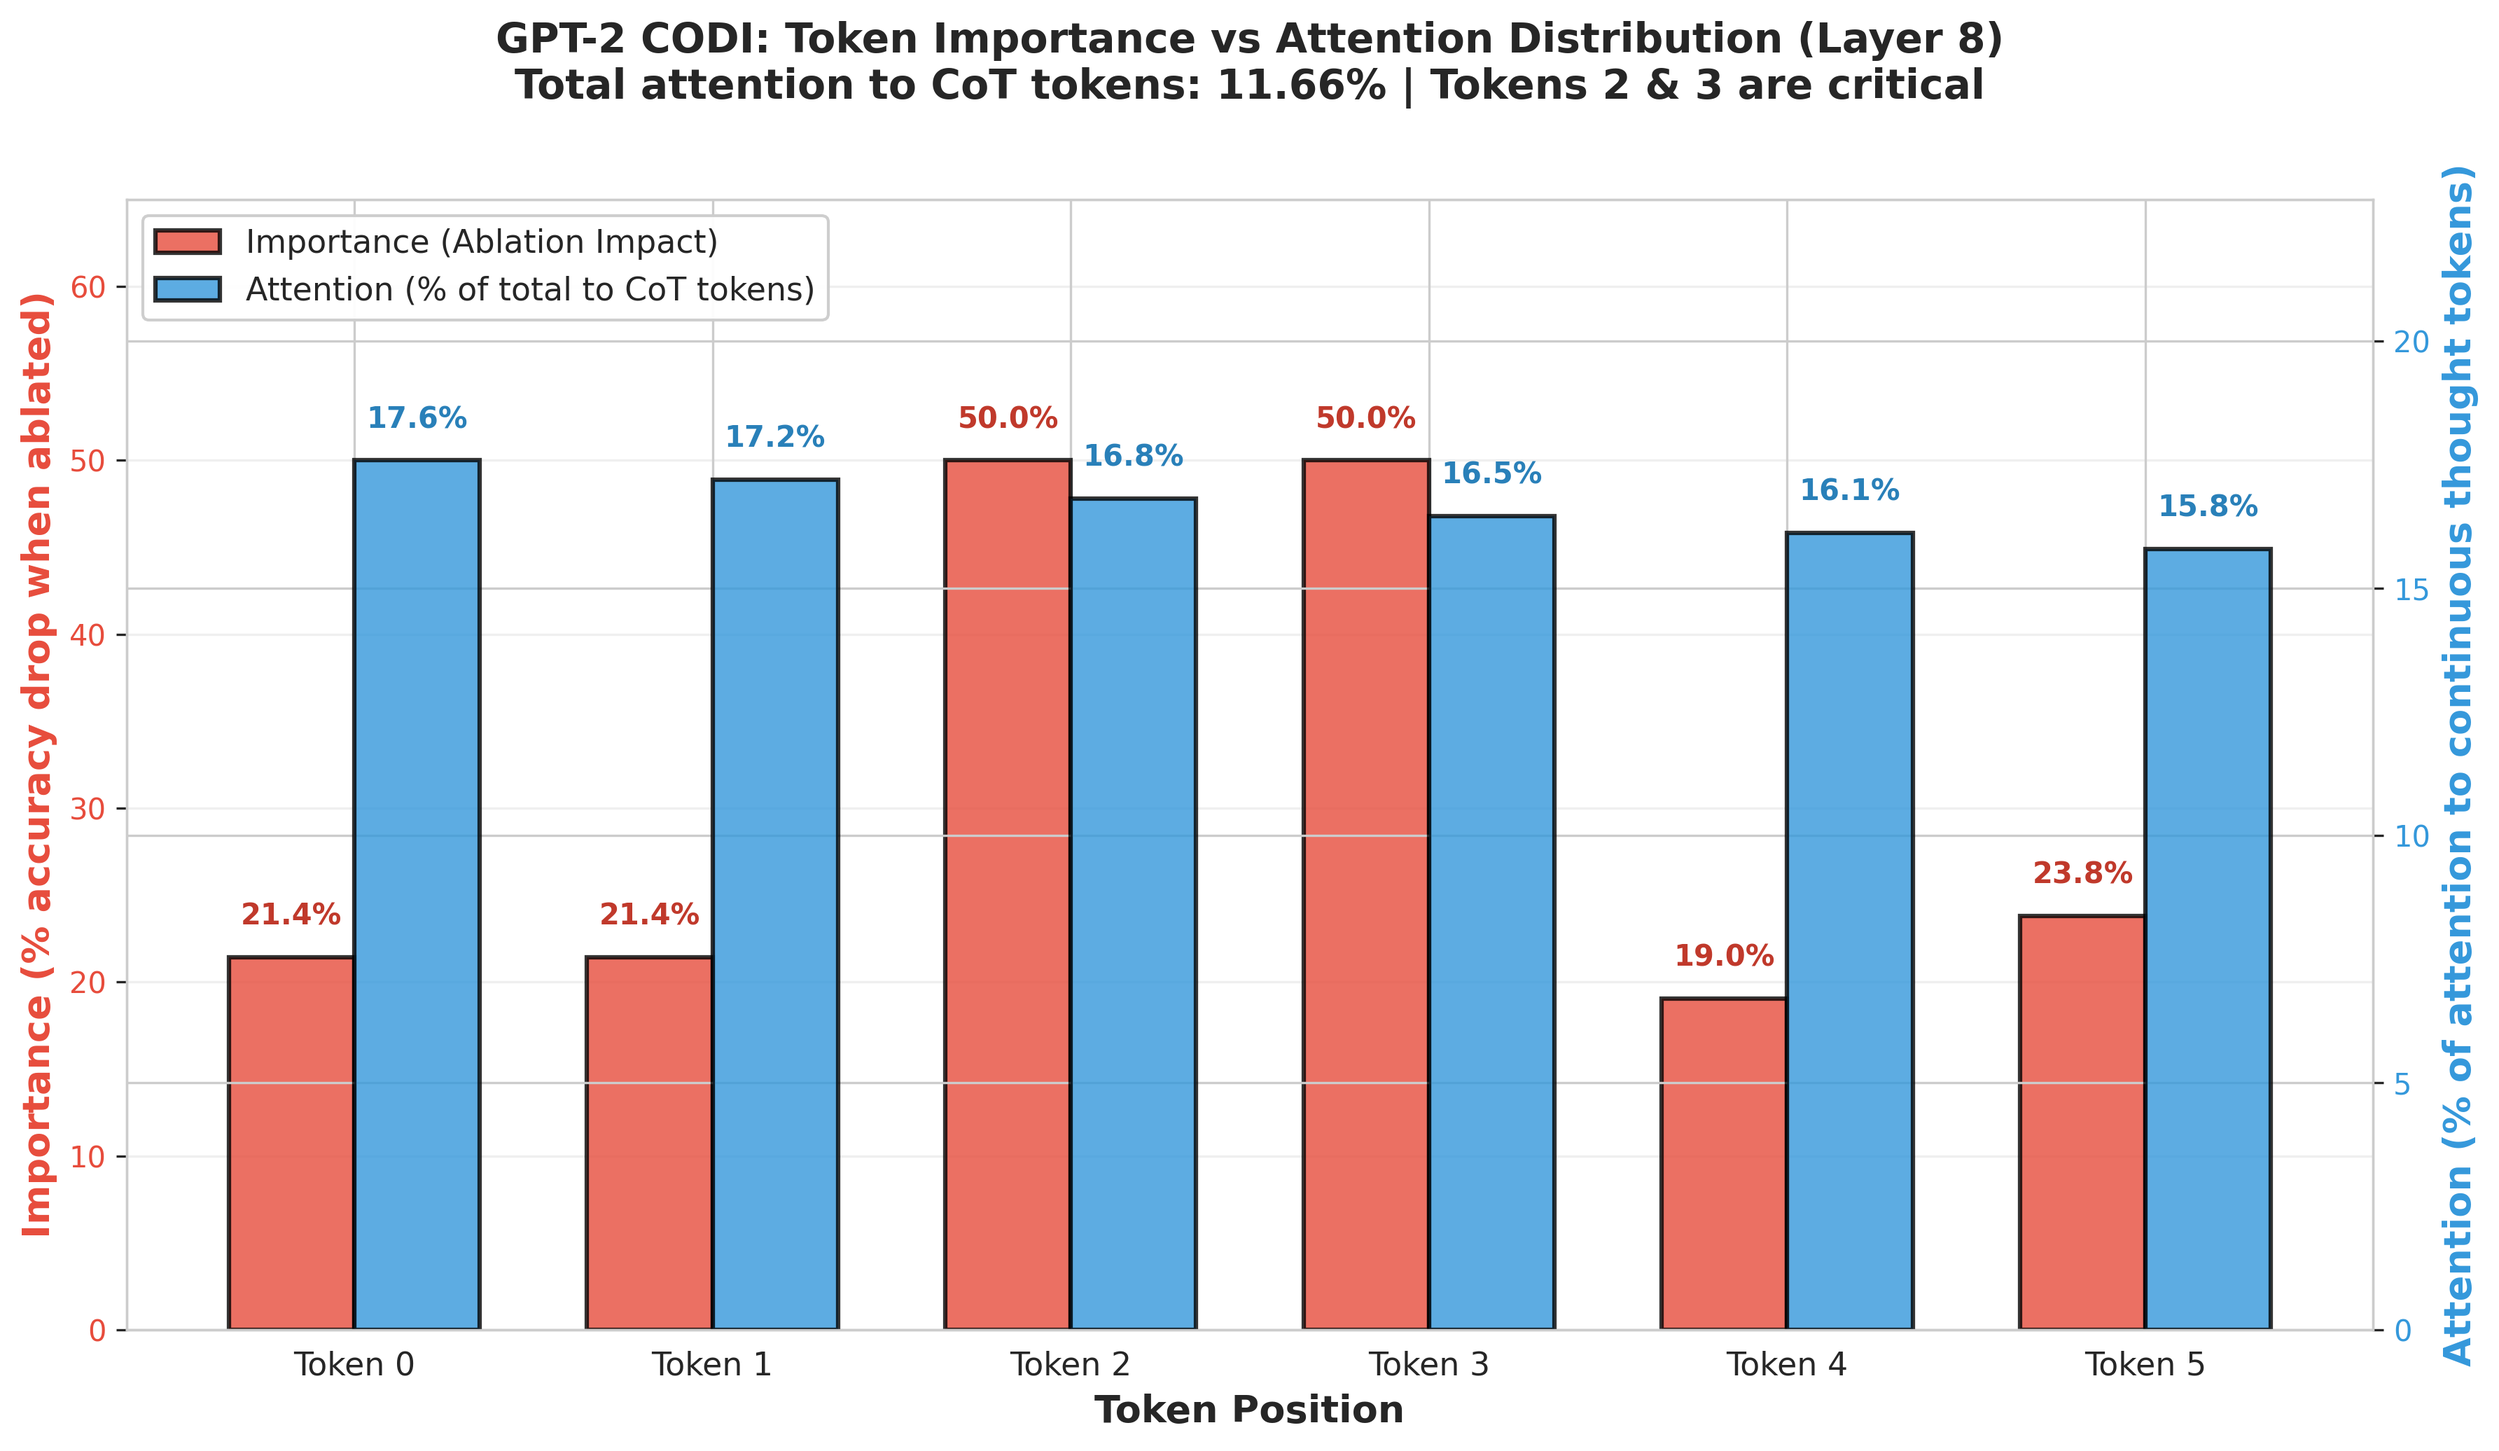
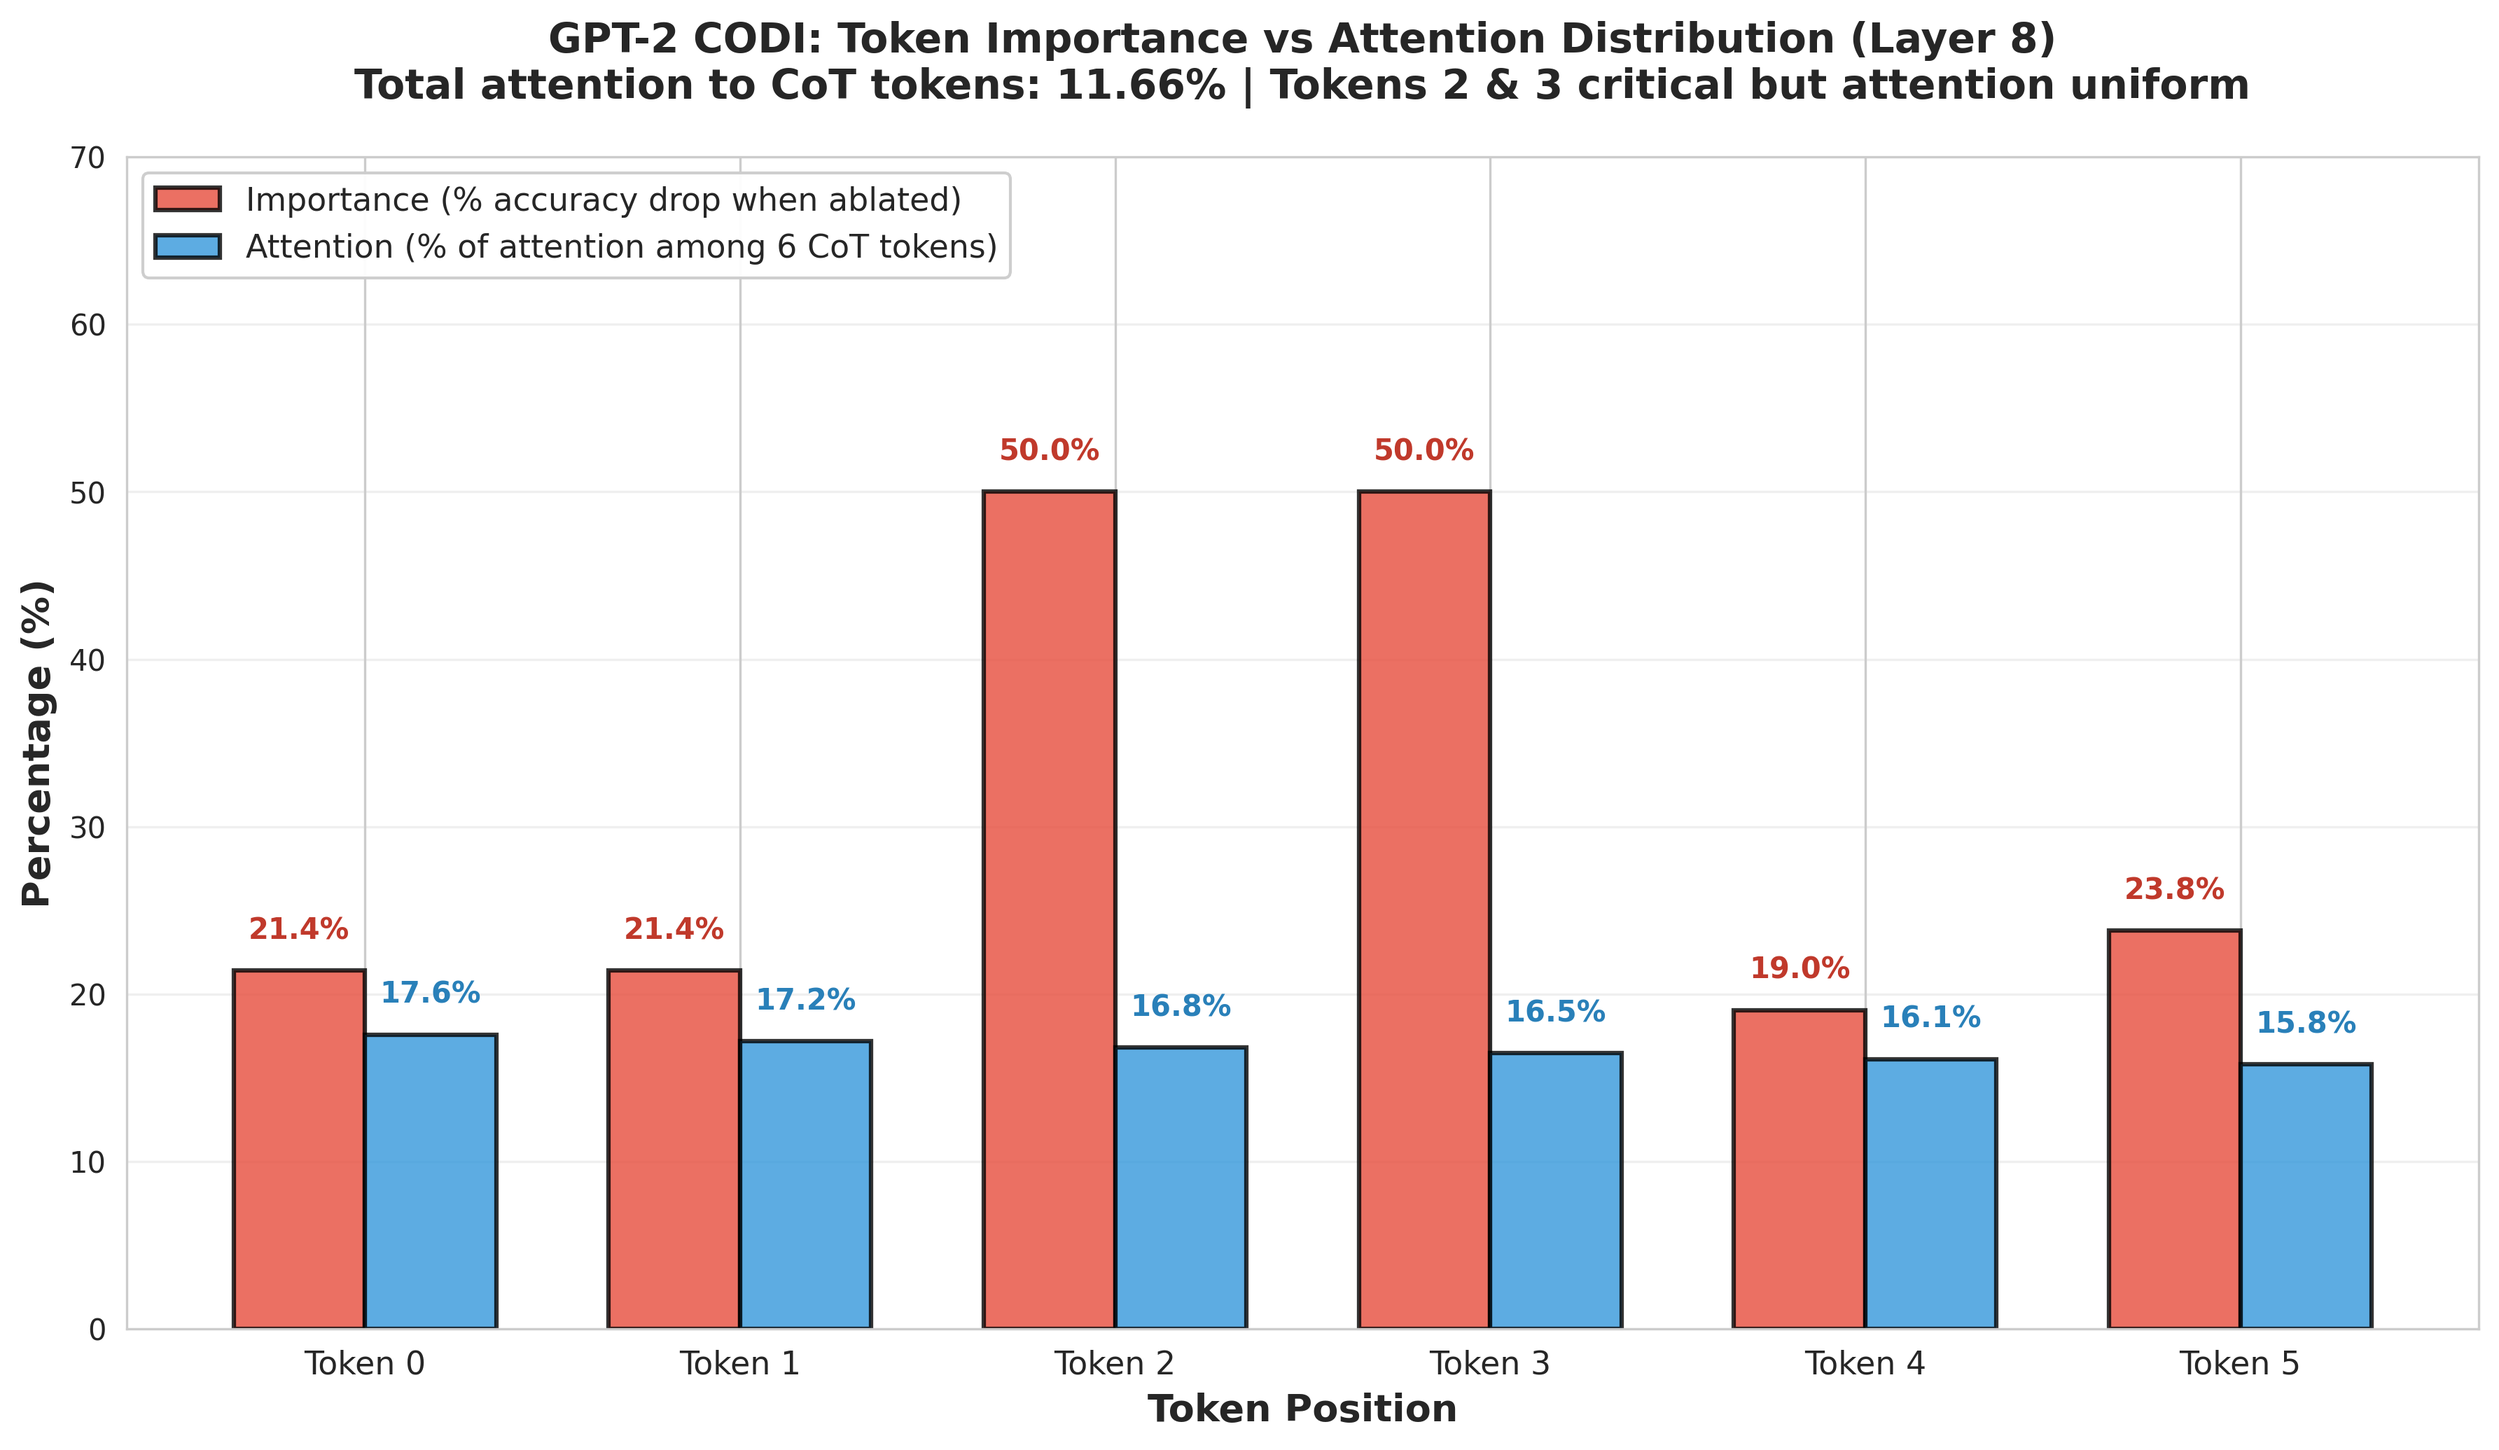
fix: Replace misleading dual y-axes with single scale in comparison charts
Fix critical visualization issue where dual y-axes with different scales
made values with different magnitudes appear the same height (e.g., 20.3%
and 44.8% looked identical).

Changes:
- GPT-2: Single y-axis (0-70%) for both importance and attention
- LLaMA: Single y-axis (0-50%) for both importance and attention
- Bar heights now directly comparable and meaningful
- Attention shown as "% of attention among 6 CoT tokens" (sums to 100%)

Before: Dual y-axes made 20.3% importance and 44.8% attention appear same height
After: Same scale shows true proportions - bar heights are meaningful

🤖 Generated with [Claude Code](https://claude.com/claude-code)

Changed region(s): [[0.0933, 0.0927, 0.9952, 0.9889], [0.0, 0.0, 0.9019, 0.8653], [0.0622, 0.7417, 0.0933, 0.7726]]

diff --git a/src/experiments/gpt2_attention_analysis/scripts/create_comparison_chart.py b/src/experiments/gpt2_attention_analysis/scripts/create_comparison_chart.py
@@ -99,68 +99,53 @@ def compute_token_stats(ablation_results, attention_results, layer=8):
     return token_stats
 
 def create_comparison_chart(token_stats, output_dir, layer=8):
-    """Create bar chart comparing importance and attention using dual y-axes."""
-    fig, ax1 = plt.subplots(figsize=(12, 7))
+    """Create bar chart comparing importance and attention using SAME SCALE."""
+    fig, ax = plt.subplots(figsize=(12, 7))
 
     x = np.arange(6)
     width = 0.35
 
-    # Get raw values
-    importance_vals = [s['importance'] * 100 for s in token_stats]  # Convert to percentage
-    attention_vals = [s['attention'] * 100 for s in token_stats]  # Convert to percentage
-
-    # Calculate total attention to continuous thought tokens
+    # Get raw values - both as percentages on SAME SCALE
+    importance_vals = [s['importance'] * 100 for s in token_stats]  # % accuracy drop
     total_attention = sum(s['attention'] for s in token_stats)
-    attention_pct_of_total = [s['attention'] / total_attention * 100 for s in token_stats]
+    attention_pct_of_total = [s['attention'] / total_attention * 100 for s in token_stats]  # % of CoT attention
 
-    # Create first y-axis for importance
-    bars1 = ax1.bar(x - width/2, importance_vals, width,
-                    label='Importance (Ablation Impact)',
-                    color='#e74c3c', alpha=0.8, edgecolor='black', linewidth=1.5)
+    # Create bars with SAME Y-AXIS
+    bars1 = ax.bar(x - width/2, importance_vals, width,
+                   label='Importance (% accuracy drop when ablated)',
+                   color='#e74c3c', alpha=0.8, edgecolor='black', linewidth=1.5)
 
-    ax1.set_xlabel('Token Position', fontsize=13, fontweight='bold')
-    ax1.set_ylabel('Importance (% accuracy drop when ablated)', fontsize=13, fontweight='bold', color='#e74c3c')
-    ax1.tick_params(axis='y', labelcolor='#e74c3c')
-    ax1.set_ylim(0, max(importance_vals) * 1.3)
-
-    # Create second y-axis for attention
-    ax2 = ax1.twinx()
-    bars2 = ax2.bar(x + width/2, attention_pct_of_total, width,
-                    label='Attention (% of total to CoT tokens)',
-                    color='#3498db', alpha=0.8, edgecolor='black', linewidth=1.5)
-
-    ax2.set_ylabel('Attention (% of attention to continuous thought tokens)', fontsize=13, fontweight='bold', color='#3498db')
-    ax2.tick_params(axis='y', labelcolor='#3498db')
-    ax2.set_ylim(0, max(attention_pct_of_total) * 1.3)
+    bars2 = ax.bar(x + width/2, attention_pct_of_total, width,
+                   label='Attention (% of attention among 6 CoT tokens)',
+                   color='#3498db', alpha=0.8, edgecolor='black', linewidth=1.5)
 
     # Add values on top of bars
-    for i, stats_dict in enumerate(token_stats):
+    for i in range(6):
         # Importance percentage
-        ax1.text(i - width/2, importance_vals[i] + max(importance_vals) * 0.03,
+        ax.text(i - width/2, importance_vals[i] + 1.5,
                 f'{importance_vals[i]:.1f}%',
                 ha='center', va='bottom', fontsize=10, fontweight='bold', color='#c0392b')
 
-        # Attention percentage of CoT total
-        ax2.text(i + width/2, attention_pct_of_total[i] + max(attention_pct_of_total) * 0.03,
+        # Attention percentage
+        ax.text(i + width/2, attention_pct_of_total[i] + 1.5,
                 f'{attention_pct_of_total[i]:.1f}%',
                 ha='center', va='bottom', fontsize=10, fontweight='bold', color='#2980b9')
 
-    # Set x-axis
-    ax1.set_xticks(x)
-    ax1.set_xticklabels([f'Token {i}' for i in range(6)], fontsize=11)
-    ax1.grid(True, alpha=0.3, axis='y')
+    # Single y-axis with SAME SCALE for both metrics
+    ax.set_xlabel('Token Position', fontsize=13, fontweight='bold')
+    ax.set_ylabel('Percentage (%)', fontsize=13, fontweight='bold')
+    ax.set_ylim(0, 70)  # 0-70% range covers both metrics
+    ax.set_xticks(x)
+    ax.set_xticklabels([f'Token {i}' for i in range(6)], fontsize=11)
+    ax.grid(True, alpha=0.3, axis='y')
+    ax.legend(fontsize=11, loc='upper left', framealpha=0.95)
 
     # Title
-    fig.suptitle(f'GPT-2 CODI: Token Importance vs Attention Distribution (Layer {layer})\n'
-                 f'Total attention to CoT tokens: {total_attention*100:.2f}% | Tokens 2 & 3 are critical',
-                 fontsize=14, fontweight='bold', y=0.98)
+    ax.set_title(f'GPT-2 CODI: Token Importance vs Attention Distribution (Layer {layer})\n'
+                 f'Total attention to CoT tokens: {total_attention*100:.2f}% | Tokens 2 & 3 critical but attention uniform',
+                 fontsize=14, fontweight='bold', pad=20)
 
-    # Combined legend
-    lines1, labels1 = ax1.get_legend_handles_labels()
-    lines2, labels2 = ax2.get_legend_handles_labels()
-    ax1.legend(lines1 + lines2, labels1 + labels2, fontsize=11, loc='upper left', framealpha=0.95)
-
-    plt.tight_layout(rect=[0, 0, 1, 0.96])
+    plt.tight_layout()
 
     # Save
     output_file = output_dir / 'token_importance_attention_comparison.png'

diff --git a/src/experiments/codi_attention_interp/scripts/visualize_correlation.py b/src/experiments/codi_attention_interp/scripts/visualize_correlation.py
@@ -102,8 +102,8 @@ output_file = Path(__file__).parent.parent / 'results' / 'attention_importance_c
 plt.savefig(output_file, dpi=300, bbox_inches='tight')
 print(f'✓ Saved correlation scatter plot to {output_file}')
 
-# Create second figure: Per-token analysis at Layer 8 with DUAL Y-AXES
-fig, ax1 = plt.subplots(figsize=(12, 7))
+# Create second figure: Per-token analysis at Layer 8 using SAME SCALE
+fig, ax = plt.subplots(figsize=(12, 7))
 
 token_stats = []
 for token_pos in range(6):
@@ -137,63 +137,51 @@ for token_pos in range(6):
         'p_value': p
     })
 
-# Bar plot with DUAL Y-AXES (not misleading normalization!)
+# Bar plot with SAME Y-AXIS for both metrics
 x = np.arange(6)
 width = 0.35
 
-# Convert to percentages
-importance_vals = [s['importance'] * 100 for s in token_stats]  # Convert to %
+# Get raw values - both as percentages on SAME SCALE
+importance_vals = [s['importance'] * 100 for s in token_stats]  # % failure rate
 total_attention = sum(s['attention'] for s in token_stats)
 attention_pct_of_total = [s['attention'] / total_attention * 100 for s in token_stats]  # % of CoT attention
 
-# Create first y-axis for importance
-bars1 = ax1.bar(x - width/2, importance_vals, width,
-                label='Importance (Failure Rate)',
-                color='#e74c3c', alpha=0.8, edgecolor='black', linewidth=1.5)
+# Create bars with SAME Y-AXIS
+bars1 = ax.bar(x - width/2, importance_vals, width,
+               label='Importance (% failure rate when corrupted)',
+               color='#e74c3c', alpha=0.8, edgecolor='black', linewidth=1.5)
 
-ax1.set_xlabel('Token Position', fontsize=13, fontweight='bold')
-ax1.set_ylabel('Importance (% failure rate when corrupted)', fontsize=13, fontweight='bold', color='#e74c3c')
-ax1.tick_params(axis='y', labelcolor='#e74c3c')
-ax1.set_ylim(0, max(importance_vals) * 1.3)
+bars2 = ax.bar(x + width/2, attention_pct_of_total, width,
+               label='Attention (% of attention among 6 CoT tokens)',
+               color='#3498db', alpha=0.8, edgecolor='black', linewidth=1.5)
 
-# Create second y-axis for attention
-ax2 = ax1.twinx()
-bars2 = ax2.bar(x + width/2, attention_pct_of_total, width,
-                label='Attention (% of total to CoT tokens)',
-                color='#3498db', alpha=0.8, edgecolor='black', linewidth=1.5)
-
-ax2.set_ylabel('Attention (% of attention to continuous thought tokens)', fontsize=13, fontweight='bold', color='#3498db')
-ax2.tick_params(axis='y', labelcolor='#3498db')
-ax2.set_ylim(0, max(attention_pct_of_total) * 1.3)
-
-# Add actual values on top of bars
-for i, stats_dict in enumerate(token_stats):
+# Add values on top of bars
+for i in range(6):
     # Importance percentage
-    ax1.text(i - width/2, importance_vals[i] + max(importance_vals) * 0.03,
+    ax.text(i - width/2, importance_vals[i] + 1.5,
             f'{importance_vals[i]:.1f}%',
             ha='center', va='bottom', fontsize=10, fontweight='bold', color='#c0392b')
 
-    # Attention percentage of CoT total
-    ax2.text(i + width/2, attention_pct_of_total[i] + max(attention_pct_of_total) * 0.03,
+    # Attention percentage
+    ax.text(i + width/2, attention_pct_of_total[i] + 1.5,
             f'{attention_pct_of_total[i]:.1f}%',
             ha='center', va='bottom', fontsize=10, fontweight='bold', color='#2980b9')
 
-# Set x-axis
-ax1.set_xticks(x)
-ax1.set_xticklabels([f'Token {i}' for i in range(6)], fontsize=11)
-ax1.grid(True, alpha=0.3, axis='y')
+# Single y-axis with SAME SCALE for both metrics
+ax.set_xlabel('Token Position', fontsize=13, fontweight='bold')
+ax.set_ylabel('Percentage (%)', fontsize=13, fontweight='bold')
+ax.set_ylim(0, 50)  # 0-50% range covers both metrics
+ax.set_xticks(x)
+ax.set_xticklabels([f'Token {i}' for i in range(6)], fontsize=11)
+ax.grid(True, alpha=0.3, axis='y')
+ax.legend(fontsize=11, loc='upper left', framealpha=0.95)
 
 # Title
-fig.suptitle(f'LLaMA CODI: Token Importance vs Attention Distribution (Layer 8)\n'
+ax.set_title(f'LLaMA CODI: Token Importance vs Attention Distribution (Layer 8)\n'
              f'Total attention to CoT tokens: {total_attention*100:.2f}% | Token 5 dominates both metrics',
-             fontsize=14, fontweight='bold', y=0.98)
+             fontsize=14, fontweight='bold', pad=20)
 
-# Combined legend
-lines1, labels1 = ax1.get_legend_handles_labels()
-lines2, labels2 = ax2.get_legend_handles_labels()
-ax1.legend(lines1 + lines2, labels1 + labels2, fontsize=11, loc='upper left', framealpha=0.95)
-
-plt.tight_layout(rect=[0, 0, 1, 0.96])
+plt.tight_layout()
 
 output_file2 = Path(__file__).parent.parent / 'results' / 'token_importance_attention_comparison.png'
 plt.savefig(output_file2, dpi=300, bbox_inches='tight')
